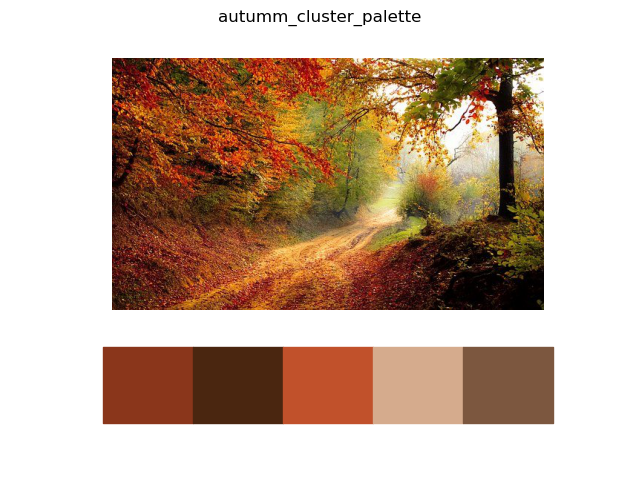
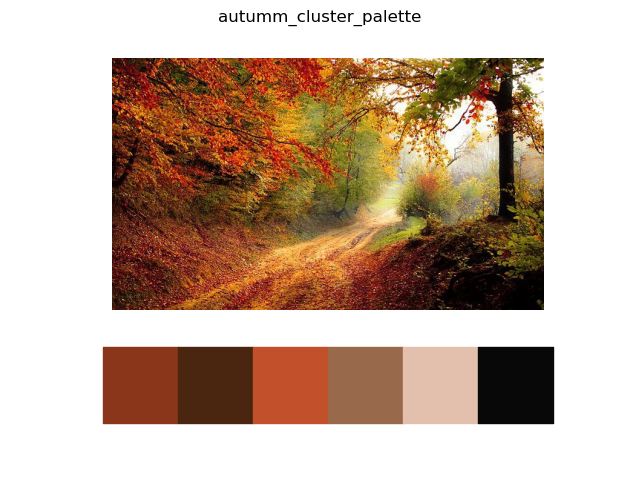
Include white & black colours pre-clustering
Only applied to HSV

Changed region(s): [[0.5, 0.7188, 0.875, 0.9062], [0.375, 0.7188, 0.4688, 0.9062], [0.2812, 0.7188, 0.3125, 0.9062]]

diff --git a/processing.py b/processing.py
@@ -16,11 +16,6 @@ def read_image(files , format):
 
     return convers.image_conversion(image , "RGB" , cf.colour_format )
 
-    #return {
-    #   "RGB": cv2.imread( files )[:, :, ::-1].astype(np.uint8)
-    #    , "HSV": cv2.cvtColor( cv2.imread( files ) , cv2.COLOR_BGR2HSV )
-    #}.get(format)
-
 
 # Extract all points from image into a nx3 vector
 def extract_pixels(image, factor):
@@ -149,10 +144,14 @@ def cluster(array, method):
                             array.shape[2]))
 
     # Remove incorrect pixels
-    array = removeIncorrectPx(
+    array = extremeColoursCorrection(
         array
         , cf.colour_format
     )
+    #array = removeIncorrectPx(
+    #    array
+    #    , cf.colour_format
+    #)
 
     # Apply one clustering technique
     clustering = {
@@ -167,7 +166,7 @@ def cluster(array, method):
                 , random_state = None
             )
         , 'KMeans': KMeans(
-            n_clusters = cf.number_colors # math.floor( 2*cf.number_colors ) # At least a 50% more of the number of colours to be extracted
+            n_clusters = cf.number_colors
             , init = 'k-means++'
             , n_init = 10
             , max_iter = cf.maximum_iterations
@@ -292,7 +291,8 @@ def normalizeImageFunction(image, format):
     return image
 
 
-def removeIncorrectPx(array , format):
+# Remove out-of-range pixels
+def removeIncorrectPx( array , format ):
 
     # If array has 3D, turn into 2D
     if (len(array.shape) == 3):
@@ -309,3 +309,38 @@ def removeIncorrectPx(array , format):
         valid_values = f.isInRange( array , c.minimum_values_cluster.get(format) , c.maximum_values_cluster.get(format) )
 
     return array[valid_values == True , :]
+
+
+# Convert to black and white pixels (depending on the colour format)
+def extremeColoursCorrection( array , format ):
+
+    # If array has 3D, turn into 2D
+    if (len(array.shape) == 3):
+        array = np.reshape(array,
+                           (array.shape[0] * array.shape[1],
+                            array.shape[2]))
+
+    # Black and white conditions
+    isBlack = {
+        True: False
+        , False: lambda x, y: x[2] < y[2]
+    }.get(format == "RGB")
+    isWhite = {
+        True: False
+        , False: lambda x, y: ( x[2] > y[2] ) and ( x[1] < y[1] )
+    }.get(format == "RGB")
+
+    # For all the elements in the array, convert them to black or white
+    colours = np.copy(array)
+    colours[
+        np.array(
+            [ isBlack( a , c.black_colour.get("limits") ) for a in array ]
+        ) == True
+    ] = c.black_colour.get(format)
+    colours[
+        np.array(
+            [ isWhite( a , c.white_colour.get("limits") ) for a in array ]
+        )
+    ] = c.white_colour.get(format)
+
+    return colours

diff --git a/constants.py b/constants.py
@@ -19,7 +19,7 @@ maximum_values_cluster = {
     "RGB": maximum_values.get("RGB")
     , "HSV": np.multiply(
         maximum_values.get("HSV")
-        , [1 , cf.HSV_removal_interval.get("max")/100 , cf.HSV_removal_interval.get("max")/100]
+        , [1 , cf.removal_interval.get("max")/100 , cf.removal_interval.get("max")/100]
     )
 }
 minimum_values_cluster = {
@@ -28,8 +28,8 @@ minimum_values_cluster = {
         minimum_values.get("HSV")
         , [
             0
-            , cf.HSV_removal_interval.get("min") * maximum_values.get("HSV")[1] / 100
-            , cf.HSV_removal_interval.get("min") * maximum_values.get("HSV")[2] / 100
+            , cf.removal_interval.get("min") * maximum_values.get("HSV")[1] / 100
+            , cf.removal_interval.get("min") * maximum_values.get("HSV")[2] / 100
         ]
     )
 }
@@ -38,6 +38,18 @@ minimum_values_cluster = {
 dimensions = {"RGB": 3
               , "HSV": 3
               }
+
+# White and black colours
+white_colour = {
+    "RGB": minimum_values.get("RGB") * dimensions.get("RGB")
+    , "HSV": [ 0 , 0 , maximum_values.get("HSV")[2] ]
+    , "limits": [ None , minimum_values_cluster.get(cf.colour_format)[1] , maximum_values.get(cf.colour_format)[2]*(1 - cf.removal_interval.get("min") / 100)]
+}
+black_colour = {
+    "RGB": maximum_values.get("RGB") * dimensions.get("RGB")
+    , "HSV": minimum_values.get("HSV")
+    , "limits": [ None , None , minimum_values_cluster.get(cf.colour_format)[2] ]
+}
 
 # Define how to represent the pixels (projection, 3d)
 projections = {"RGB": "3d"

diff --git a/config.py b/config.py
@@ -10,7 +10,7 @@ number_bins = {"RGB": [3]
               }
 
 # Number of colours of the palette
-number_colors = 5
+number_colors = 6
 
 # Default colour palette
 default_palette = ["#DAF7A6","#FFC300","#FF5733","#C70039","#900C3F","#581845"]
@@ -19,7 +19,7 @@ default_palette = ["#DAF7A6","#FFC300","#FF5733","#C70039","#900C3F","#581845"]
 colour_format = "HSV"
 
 # Saturation and value extremse removal interval (HSV pre-processing)
-HSV_removal_interval = {"min": 10, "max": 100}
+removal_interval = {"min": 10, "max": 100}
 
 # When changing the colour palette, define the intensity of the change ["soft","medium","hard"]
 change_mode = "soft"
